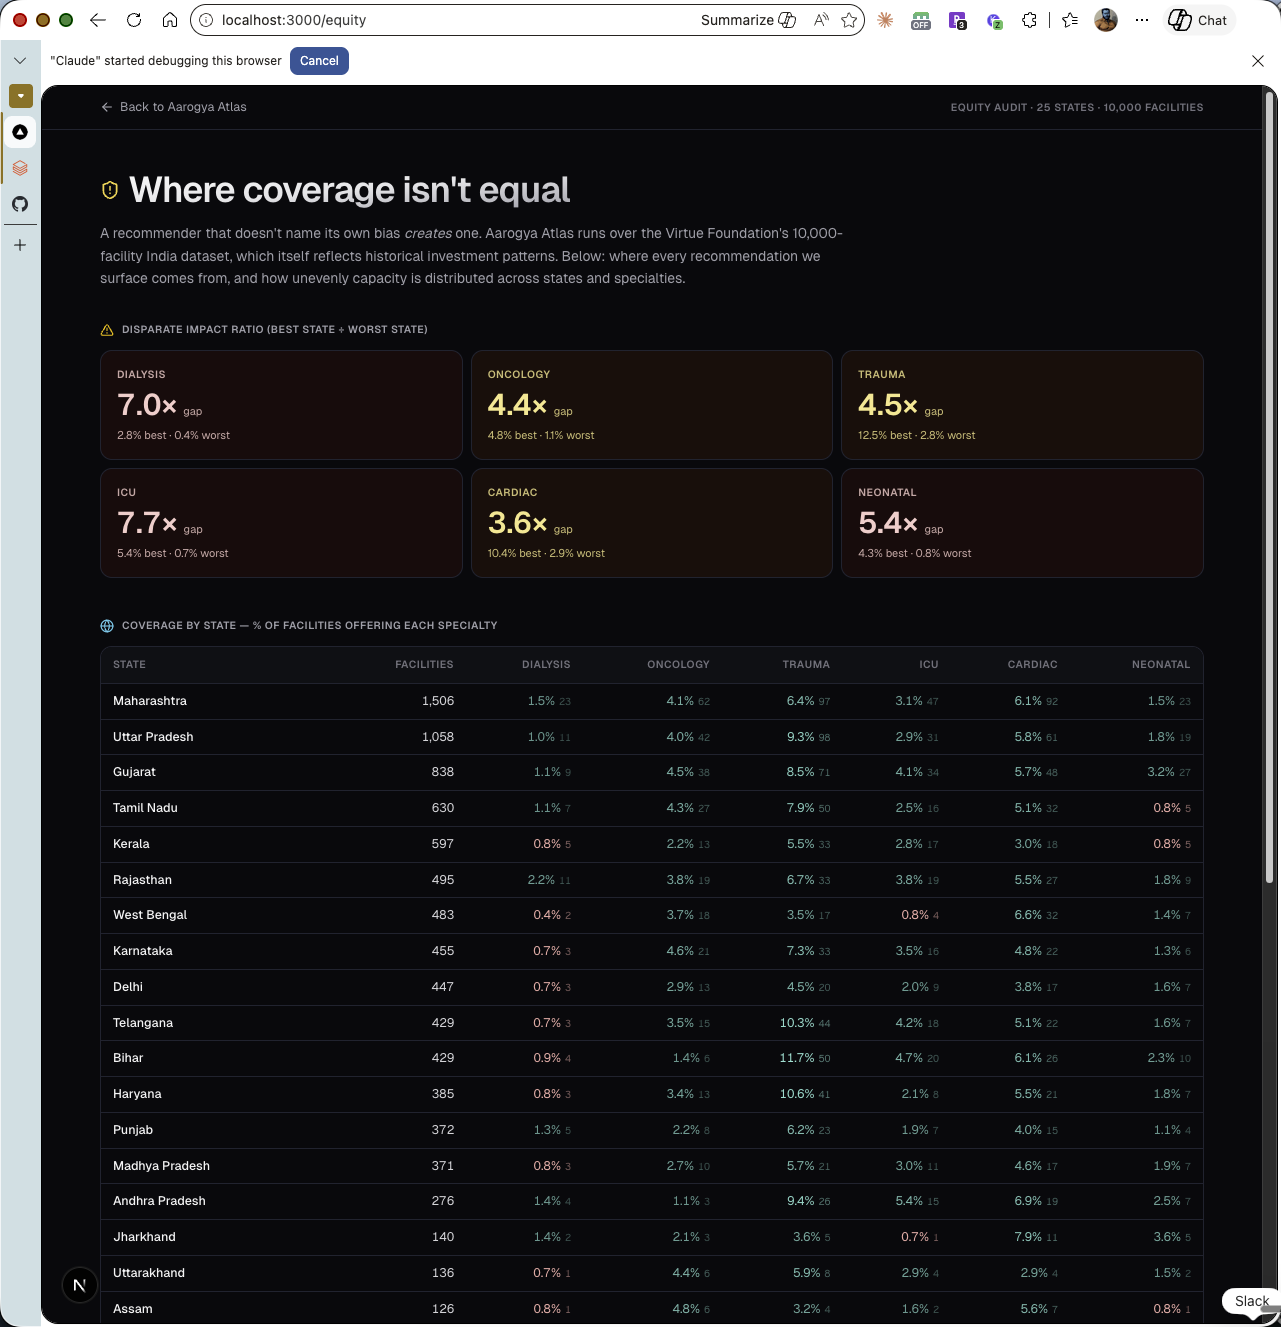
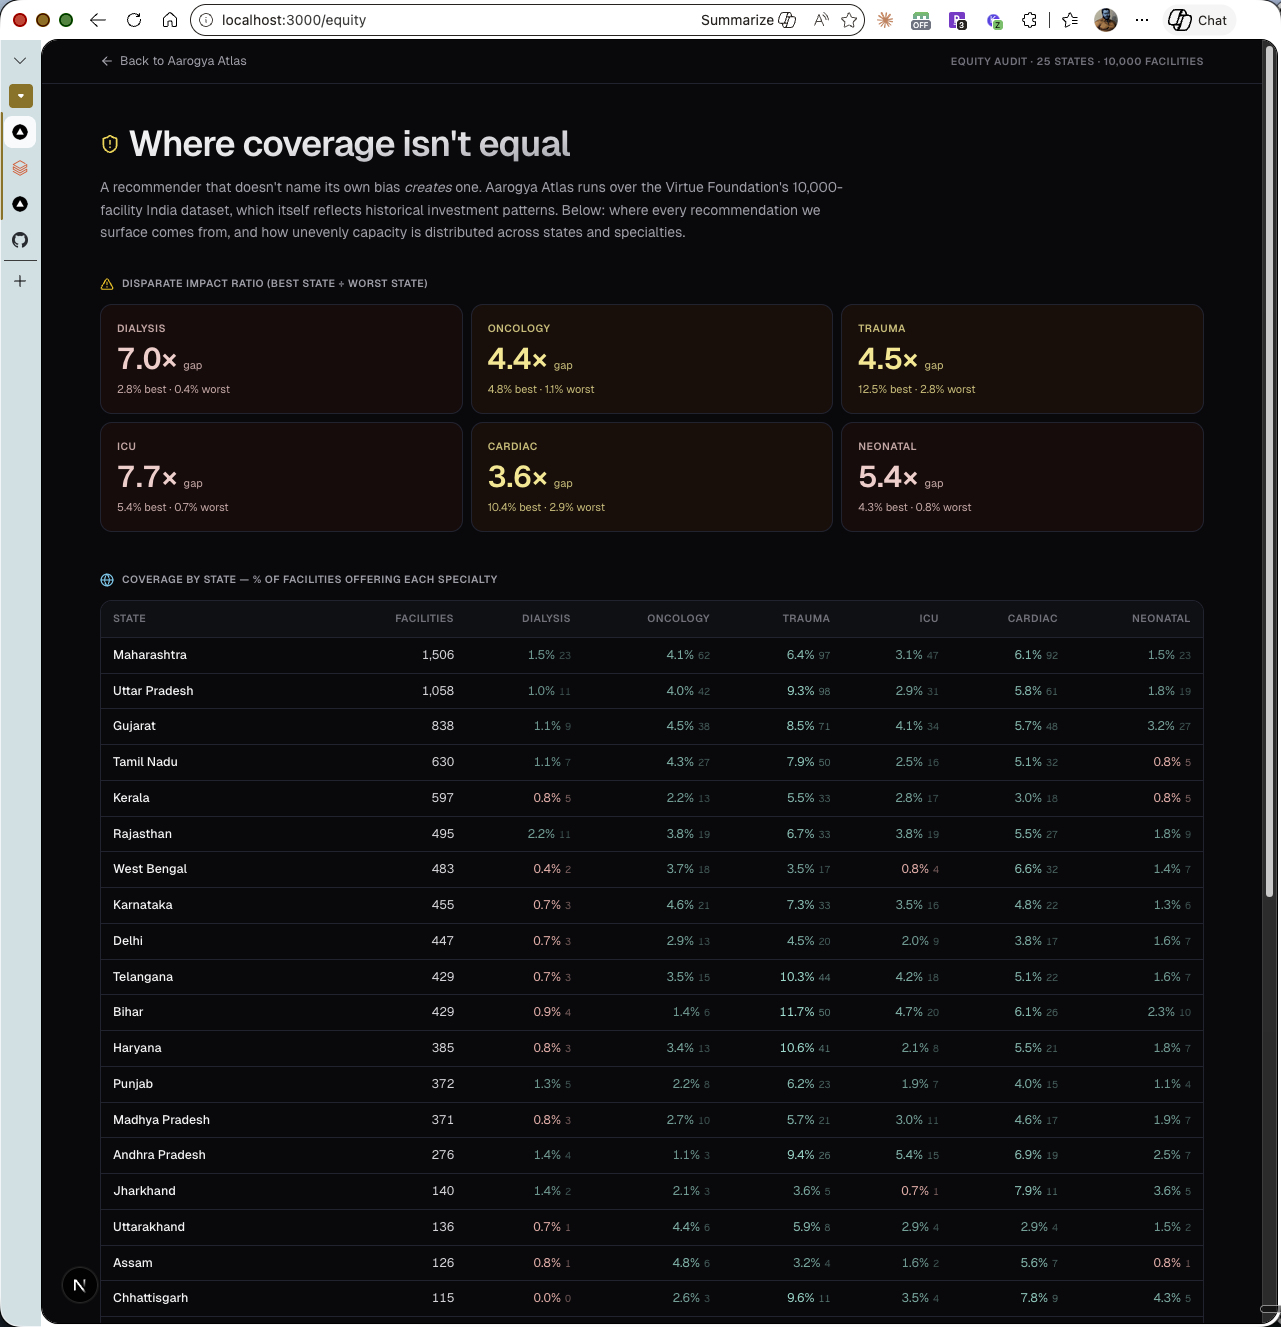
ui(mobile): stack chat + map vertically below md breakpoint
Below 768px the chat panel takes max-h-60vh and full width; map sits
below at min-h-40vh. Above 768px keeps the prior side-by-side
44%-min-440px chat + flex-1 map layout.

Visitors on a phone now see the hero stat-trio and sample
answer card without the layout exploding past viewport width.

diff --git a/apps/web/src/app/page.tsx b/apps/web/src/app/page.tsx
@@ -135,12 +135,12 @@ export default function HomePage() {
     <div className="flex h-screen flex-col overflow-hidden">
       <Header facilityCount={allFacilities.length} loaded={allFacilities.length > 0} />
 
-      <div className="flex flex-1 overflow-hidden">
-        <aside className="flex w-[44%] min-w-[440px] max-w-[640px] flex-col border-r border-[var(--border)] bg-[var(--bg)]/50">
+      <div className="flex flex-1 flex-col overflow-hidden md:flex-row">
+        <aside className="flex max-h-[60vh] w-full flex-col border-b border-[var(--border)] bg-[var(--bg)]/50 md:max-h-none md:w-[44%] md:min-w-[440px] md:max-w-[640px] md:border-b-0 md:border-r">
           <AgentChat onResult={handleResult} />
         </aside>
 
-        <main className="relative flex-1 bg-[var(--bg-elevated)]">
+        <main className="relative min-h-[40vh] flex-1 bg-[var(--bg-elevated)] md:min-h-0">
           <MapView
             pins={pins}
             center={center}
